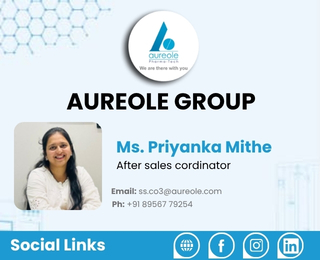
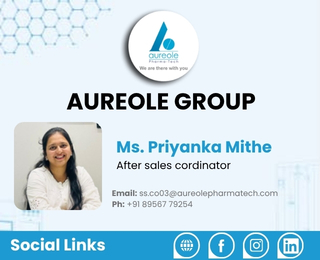
feat: add new digital v-cards for Priyanka Mithe and Tejal Shinde.

Changed region(s): [[0.3438, 0.7077, 0.875, 0.7692]]

diff --git a/public/vcards-2026/priyanka-mithe/index.html b/public/vcards-2026/priyanka-mithe/index.html
@@ -77,8 +77,8 @@
 						</div>
 						<div class="profile-name">
 							<h1>Ms. Priyanka Mithe</h1>
-							<p>After sales cordinator</p>
-							<p class="contacc"><b>Email:</b> <a href="mailto:ss.co3@aureole.com">ss.co3@aureole.com</a></p>
+							<p>After Sales Coordinator</p>
+							<p class="contacc"><b>Email:</b> <a href="mailto:ss.co03@aureolepharmatech.com">ss.co03@aureolepharmatech.com</a></p>
 							<p class="contacc"><b>Ph:</b> <a href="tel:+918956779254">+91 89567 79254</a></p>
 							<!-- <div class="social-icon-content2">	
 								<a href="tel:+918055406838" target="_blank">
@@ -560,7 +560,7 @@
 								<a href=" https://www.linkedin.com/in/priyanka-mithe-01b9a41b7?utm_source=share&utm_campaign=share_via&utm_content=profile&utm_medium=android_app" target="_blank"><img src="assets/images/social-icon/icon5.svg" alt="social-icon"></a>
 							</div>
 							<div class="social-media-img">
-								<a href="mailto:ss.co3@aureole.com" target="_blank"><img src="assets/images/social-icon/icon9.svg" alt="social-icon"></a>
+								<a href="mailto:ss.co03@aureolepharmatech.com" target="_blank"><img src="assets/images/social-icon/icon9.svg" alt="social-icon"></a>
 							</div>
 						</div>
 					</div>
@@ -604,8 +604,8 @@ saveBtn.addEventListener("click", function () {
   // Get the contact information from the website
   var contact = {
     name: "Ms. Priyanka Mithe",
-    phone: "+918956779254	",
-    email: "ss.co3@aureole.com"
+    phone: "+918956779254",
+    email: "ss.co03@aureolepharmatech.com"
   };
   // create a vcard file
   var vcard = "BEGIN:VCARD\nVERSION:4.0\nFN:" + contact.name + "\nTEL;TYPE=work,voice:" + contact.phone + "\nEMAIL:" + contact.email + "\nEND:VCARD";

diff --git a/public/vcards-2026/tejal-shinde/index.html b/public/vcards-2026/tejal-shinde/index.html
@@ -77,7 +77,7 @@
 						</div>
 						<div class="profile-name">
 							<h1>Ms. Tejal Shinde</h1>
-							<p>Service Co-ordinator</p>
+							<p>Service Coordinator</p>
 							<p class="contacc"><b>Email:</b> <a href="mailto:ss.co06@aureolepharmatech.com">ss.co06@aureolepharmatech.com</a></p>
 							<p class="contacc"><b>Ph:</b> <a href="tel:+918600032360">+91 86000 32360</a></p>
 							<!-- <div class="social-icon-content2">	
